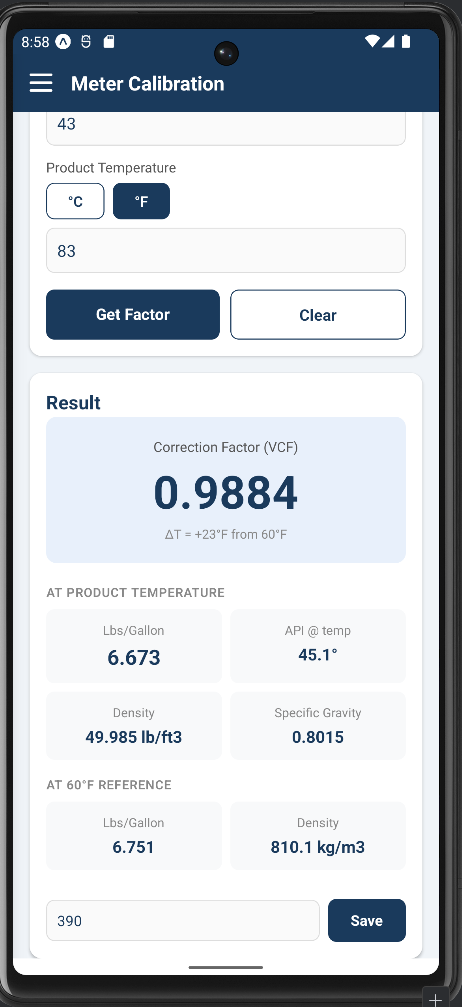
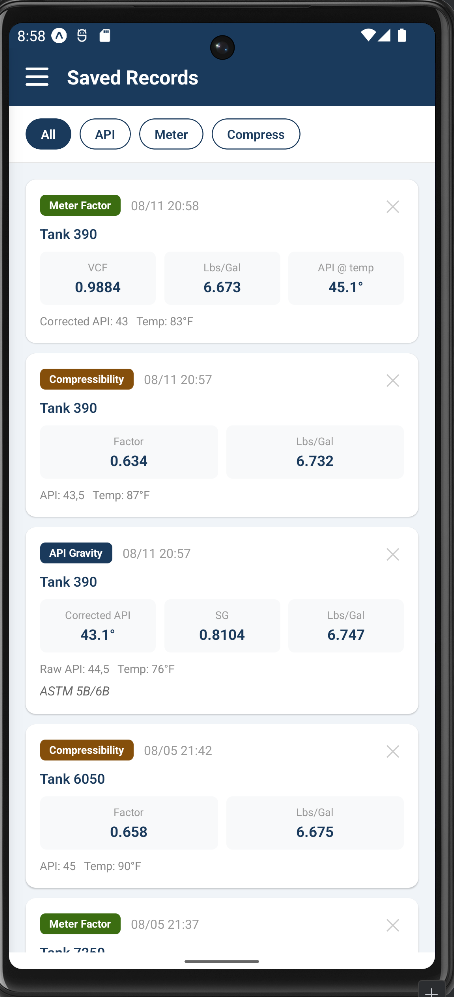
Add EngineRoomLog screenshots

diff --git a/assets/site.css b/assets/site.css
@@ -103,8 +103,8 @@ img { max-width: 100%; display: block; }
 .wordmark {
   font-family: var(--font-display);
   font-weight: 600;
-  font-size: 0.92rem;
-  letter-spacing: 0.1em;
+  font-size: 1.15rem;
+  letter-spacing: 0.08em;
   text-transform: uppercase;
   color: #fff;
   text-decoration: none;
@@ -395,34 +395,32 @@ main { padding-top: 3.5rem; }
    -------------------------------------------------------------------------- */
 
 .shots {
-  display: flex;
-  gap: 0.75rem;
-  overflow-x: auto;
+  display: grid;
+  grid-template-columns: repeat(3, 1fr);
+  gap: 0.9rem;
   padding: 1.25rem;
   background: var(--navy-deep);
   margin-bottom: 1.25rem;
 }
 
 .shots img {
-  height: 24rem;
-  width: auto;
+  width: 100%;
+  height: auto;
   border: 1px solid rgba(255, 255, 255, 0.15);
-  flex: none;
 }
 
 .shot-strip {
-  display: flex;
-  gap: 0.6rem;
-  overflow-x: auto;
+  display: grid;
+  grid-template-columns: repeat(3, 1fr);
+  gap: 0.75rem;
   margin-bottom: 1.4rem;
   background: var(--navy-deep);
   padding: 1rem;
 }
 
 .shot-strip img {
-  height: 15rem;
-  width: auto;
-  flex: none;
+  width: 100%;
+  height: auto;
   border: 1px solid rgba(255, 255, 255, 0.15);
 }
 
@@ -669,8 +667,8 @@ tbody td:last-child { color: var(--draft); font-weight: 500; }
 .colophon a:hover { color: var(--amber); }
 
 @media (max-width: 34rem) {
-  .shots img { height: 18rem; }
-  .shot-strip img { height: 12rem; }
+  .shots,
+  .shot-strip { grid-template-columns: repeat(2, 1fr); }
   .project { padding: 1.25rem; }
   .stats .figure { font-size: 1.7rem; }
 }
@@ -681,22 +679,26 @@ tbody td:last-child { color: var(--draft); font-weight: 500; }
 
 .hero-grid {
   display: grid;
-  grid-template-columns: 11rem 1fr;
-  gap: 2.25rem;
+  grid-template-columns: 17rem 1fr;
+  gap: 2.75rem;
   align-items: start;
 }
 
 .portrait {
-  width: 11rem;
-  height: 11rem;
+  width: 100%;
+  aspect-ratio: 4 / 5;
   object-fit: cover;
   border: 1px solid rgba(255, 255, 255, 0.25);
   border-left: 3px solid var(--amber);
 }
 
-@media (max-width: 40rem) {
+@media (max-width: 46rem) {
+  .hero-grid { grid-template-columns: 13rem 1fr; gap: 1.75rem; }
+}
+
+@media (max-width: 34rem) {
   .hero-grid { grid-template-columns: 1fr; gap: 1.5rem; }
-  .portrait { width: 8rem; height: 8rem; }
+  .portrait { width: 11rem; }
 }
 
 /* --------------------------------------------------------------------------

diff --git a/engineroomlog/index.html b/engineroomlog/index.html
@@ -47,10 +47,16 @@
   <!-- Drop the screenshots into /assets/images/, then delete the placeholder
        below and uncomment the .shots block. -->
   <section class="band wrap">
-    <div class="shot-placeholder">
-      Screenshots go here<br>
-      assets/images/engineroomlog-1.png &hellip; engineroomlog-5.png
-    </div>
+        <div class="shot-strip">
+          <img src="/assets/images/engineroomlog-1.png" alt="Login screen.">
+          <img src="/assets/images/engineroomlog-2.png" alt="Watch entry form.">
+          <img src="/assets/images/engineroomlog-3.png" alt="Journal grid for a day.">
+          <img src="/assets/images/engineroomlog-4.png" alt="Exported PDF page.">
+          <img src="/assets/images/engineroomlog-5.png" alt="Exported PDF page.">
+          <img src="/assets/images/engineroomlog-6.png" alt="Exported PDF page.">
+          <img src="/assets/images/engineroomlog-7.png" alt="Exported PDF page.">
+          <img src="/assets/images/engineroomlog-8.png" alt="Exported PDF page.">
+        </div>
     <!--
     <div class="shots">
       <img src="/assets/images/engineroomlog-1.png" alt="Entry form for a watch.">

diff --git a/index.html b/index.html
@@ -111,9 +111,10 @@
       <li class="project">
         <h3><a href="/engineroomlog/">EngineRoomLog</a></h3>
 
-        <div class="shot-placeholder">
-          Screenshots go here<br>
-          assets/images/engineroomlog-1.png &hellip;
+        <div class="shot-strip">
+          <img src="/assets/images/engineroomlog-1.png" alt="Login screen.">
+          <img src="/assets/images/engineroomlog-2.png" alt="Watch entry form.">
+          <img src="/assets/images/engineroomlog-3.png" alt="Journal grid for a day.">
         </div>
 
         <dl class="plate">
